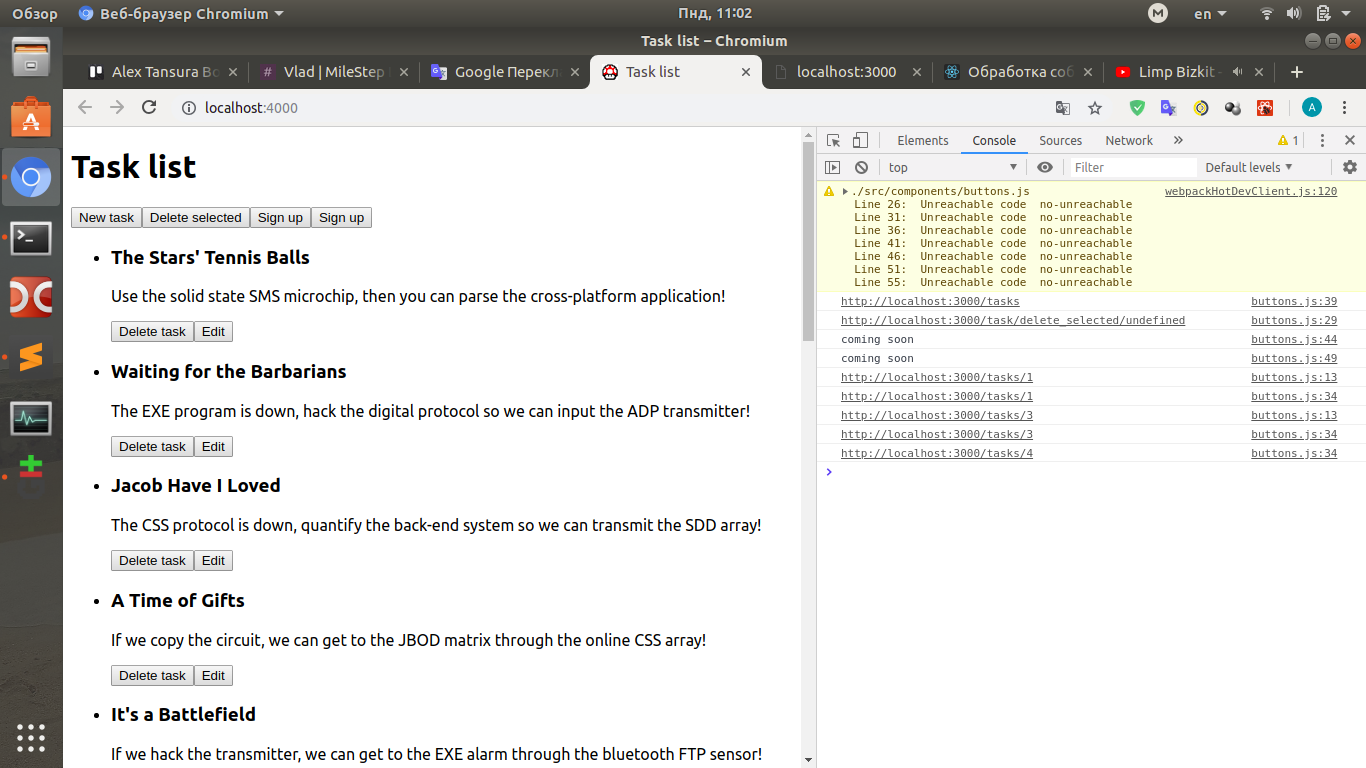
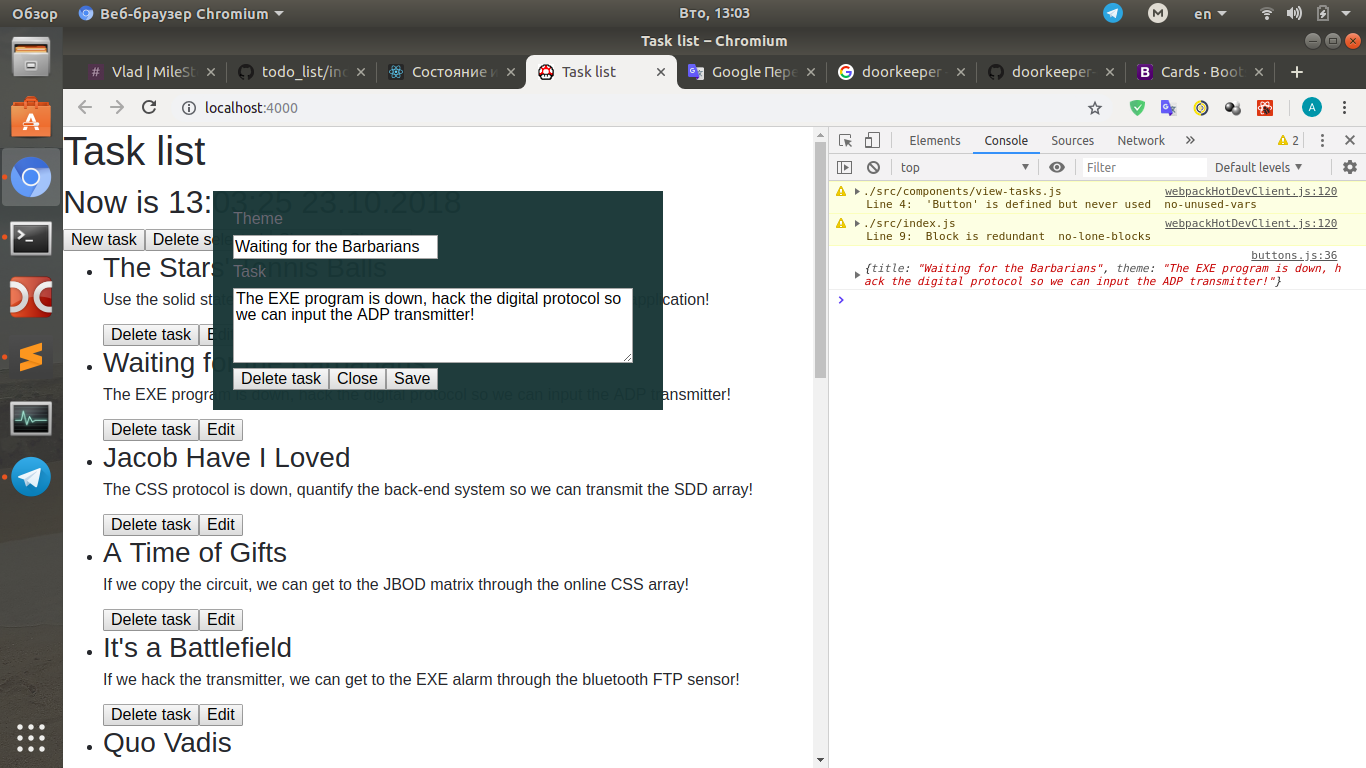
Added modal 'editTask' and 'save' button

diff --git a/rct/src/components/buttons.js b/rct/src/components/buttons.js
@@ -1,5 +1,7 @@
 import routes from '../config/routes-helper';
+import Task from '../components/task-form';
 import React, {Component} from 'react';
+import ReactDOM from 'react-dom';
 
 class Buttons extends Component {
 	state = {
@@ -17,42 +19,68 @@ class Buttons extends Component {
 		// .catch(error => this.setState({ error }))
 	}
 
+	openNewTaskModal = () => {
+		this.openTaskInModal(false);
+	}
+
+	openTaskInModal = (taskKey) => {
+		this.hideModal();
+		document.getElementById("modal").hidden	= false;
+		let container = document.createElement("div");
+		document.getElementById("modal").appendChild(container);
+		ReactDOM.render(<Task taskKey={taskKey} />, container);
+	}
+
+	hideModal = () => {
+		let elem = document.getElementById("modal");
+		if (elem.firstChild) ReactDOM.unmountComponentAtNode(elem.firstChild);
+		elem.innerHTML = ''; 
+		elem.hidden	= true;
+	}
+
+	saveTask = (r) => {
+		this.ajaxTo(routes.taskCreatePost + JSON.stringify(r));
+		this.hideModal();
+	}
+
 	getButton = (type, params) => {
 		switch (type) {
 			case 'deleteTask':
 				return(
 					<button onClick={({adrs = routes.taskDelete + params}) => this.ajaxTo(adrs)}>Delete task</button>
 				)
-			break;
 			case 'deleteTasks':
 				return(
 					<button onClick={({adrs = routes.deleteSelected + params}) => console.log(adrs)}>Delete selected</button>
 				)
-			break;
 			case 'editTask':
 				return(
-					<button onClick={({adrs = routes.taskUpdatePut + params}) => console.log(adrs)}>Edit</button>
+					<button onClick={({taskKey = params}) => this.openTaskInModal(taskKey)}>Edit</button>
 				)
-			break;
 			case 'createTask':
+			case 'newTask':
 				return(
-					<button onClick={({adrs = routes.taskCreatePost}) => console.log(adrs)}>New task</button>
+					<button onClick={() => this.openNewTaskModal()}>New task</button>
 				)
-			break;
+			case 'closeTask':
+				return(
+					<button onClick={() => this.hideModal()}>Close</button>
+				)
+			case 'saveTask':
+				return(
+					<button onClick={({r = this.props.val}) => this.saveTask(r)}>Save</button>
+				)
 			case 'signUp':
 				return(
 					<button onClick={() => console.log('coming soon')}>Sign up</button>
 				)
-			break;
 			case 'signIn':
 				return(
-					<button onClick={() => console.log('coming soon')}>Sign up</button>
+					<button onClick={() => console.log('coming soon')}>Sign in</button>
 				)
-			break;
 			default:
 				document.getElementById('notice').innerHTML = 'Button is undefined'
 				return(null)
-			break;
 		}
 	}
 

diff --git a/rct/src/components/task-form.js b/rct/src/components/task-form.js
@@ -1,0 +1,70 @@
+import React, {Component} from 'react';
+import routes from '../config/routes-helper';
+import Buttons from './buttons';
+
+class Task extends Component {
+	constructor(props) {
+		super(props);
+		this.state = {
+			isLoading: false,
+			error: null,
+			tasks: [],
+			taskKey: this.props.taskKey,
+			value: {
+				id: '',
+				title: '',
+				theme: '',
+				priority: 0,
+				due_date: ''
+			}
+		};
+
+		this.handleChange = this.handleChange.bind(this);
+	}
+
+	componentDidMount() {
+		if (this.props.taskKey.toString()) {
+			fetch(routes.root)
+			.then(response => response.json())
+			.then(data => this.setState({tasks: data, isLoading: true}))
+			.then(data => {
+				let task = this.state.tasks[this.state.taskKey];
+				this.setState({ value: { ...this.state.value, title:  task.title} });
+				this.setState({ value: { ...this.state.value, theme:  task.theme} });
+				this.setState({ value: { ...this.state.value, id:  task.id} });
+			})
+			.catch(error => this.setState({ error }))
+		}
+	}
+
+	handleChange(event) {
+		let val = event.target.value
+		this.setState({ value: { ...this.state.value, [event.target.name]:  val} });
+	}
+
+	render() {
+		let task = this.state.tasks[this.state.taskKey] || this.state.value
+		let buttonDeleteTask = task.id ? <Buttons type='deleteTask' params={task.id}/> : ''
+		if (this.state.isLoading) {
+			return(
+				<div>
+				<label>Theme</label>
+				<input defaultValue={task.title} name="title" onChange={this.handleChange}/> 
+				<label>Task</label>
+				<textarea defaultValue={task.theme} name="theme" onChange={this.handleChange}/>
+				{buttonDeleteTask}
+				<Buttons type='closeTask'/>
+				<Buttons type='saveTask' val={this.state.value}/>
+				</div>
+				)
+		}
+		if (this.state.error) {
+			document.getElementById('notice').innerHTML = this.state.error.toString()
+			return(null)
+		} else {
+			return(null)
+		}
+	}
+}
+
+export default Task;

diff --git a/rct/src/index.css b/rct/src/index.css
@@ -1,14 +1,50 @@
 body {
-  margin: 5;
-  padding: 0;
-  font-family: -apple-system, BlinkMacSystemFont, "Segoe UI", "Roboto", "Oxygen",
-    "Ubuntu", "Cantarell", "Fira Sans", "Droid Sans", "Helvetica Neue",
-    sans-serif;
-  -webkit-font-smoothing: antialiased;
-  -moz-osx-font-smoothing: grayscale;
+  line-height: 1;
 }
 
 code {
   font-family: source-code-pro, Menlo, Monaco, Consolas, "Courier New",
-    monospace;
+  monospace;
+}
+
+#modal {
+  background: rgba(20, 50, 50, 0.97);
+  color: #666871;
+  text-align: left;
+  max-width: 60%;
+  top: 10vh;
+  left: 0;
+  right: 0;
+  position: absolute;
+  margin: auto;
+  padding: 20px;
+  pointer-events: auto;
+  z-index: 1;  
+  position: fixed;
+}
+
+#modal input, textarea {
+  width: auto;
+  margin-bottom: 5px;
+  left: 5px;
+  right: 5px;
+  display: block;
+}
+
+textarea {
+  min-width: 400px;
+  min-height: 75px;
+  }
+
+#clock {
+  text-align: right;
+}
+
+#site_name {
+  float: left;
+  font-size: 24pt;
+}
+
+#buttons_board {
+  left: 5px;
 }

diff --git a/rct/src/index.js b/rct/src/index.js
@@ -1,22 +1,25 @@
 import React from 'react';
 import ReactDom from 'react-dom';
-import './index.css';
 import ViewTasks from './components/view-tasks';
 import Buttons from './components/buttons';
 import Clock from './components/clock';
+import 'bootstrap/dist/css/bootstrap.min.css';
+import './index.css';
+
+{document.getElementById("modal").hidden	= true}
 
 function Main() {
 	return (
 		<div>
-			<h1>Task list</h1>
-			  <Clock />
+			<h1 id='site_name'>Task list</h1> <Clock />
+			<div id='buttons_board'>
 				<Buttons type='createTask'/>
 				<Buttons type='deleteTasks'/>
 				<Buttons type='signUp'/>
 				<Buttons type='signIn'/>
-
-			{/*<Article anyText="random props"/>*/}
-			<ViewTasks />
+			</div>
+				{/*<Article anyText="random props"/>*/}
+				<ViewTasks />
 		</div>
 	)
 }

diff --git a/rct/src/components/view-tasks.js b/rct/src/components/view-tasks.js
@@ -1,9 +1,9 @@
 import React, {Component} from 'react';
 import routes from '../config/routes-helper';
 import Buttons from './buttons';
+import { Button } from 'reactstrap';
 
 class Article extends Component {
-
 	state = {
 		isLoading: false,
 		error: null,		
@@ -33,7 +33,7 @@ class Article extends Component {
 								<h3>{task.title}</h3>
 								<p>{task.theme}</p>
 								<Buttons type='deleteTask' params={task.id}/>
-								<Buttons type='editTask' params={task.id}/>
+								<Buttons type='editTask' params={i}/>
 							</li>
 						)
 					}</ul>

diff --git a/rct/src/config/routes-helper.js b/rct/src/config/routes-helper.js
@@ -3,7 +3,7 @@ const API = 'http://localhost:3000';
 let routes = {
 	root: API,
 	tasksGet: API + '/tasks',
-	taskCreatePost: API + '/tasks',
+	taskCreatePost: API + '/tasks/',
 	taskShowGet: API + '/tasks/',
 	taskUpdatePut: API + '/tasks/',
 	taskUpdatePatch: API + '/tasks/',

diff --git a/rct/src/components/clock.js b/rct/src/components/clock.js
@@ -2,7 +2,7 @@ import React from 'react';
 
 function Clock(props) {
   return (
-      <h2>Now is {new Date().toString()}</h2>
+      <h2 id='clock'>Now is {new Date().toLocaleTimeString() + " " + new Date().toLocaleDateString()}</h2>
   );
 }
 

diff --git a/rct/public/index.html b/rct/public/index.html
@@ -7,6 +7,7 @@
   </head>
   <body>
     <noscript>You need to enable JavaScript to run this app.</noscript>
+    <div id="modal"></div>
     <div id="notice"></div>
     <div id="root"></div>
   </body>
